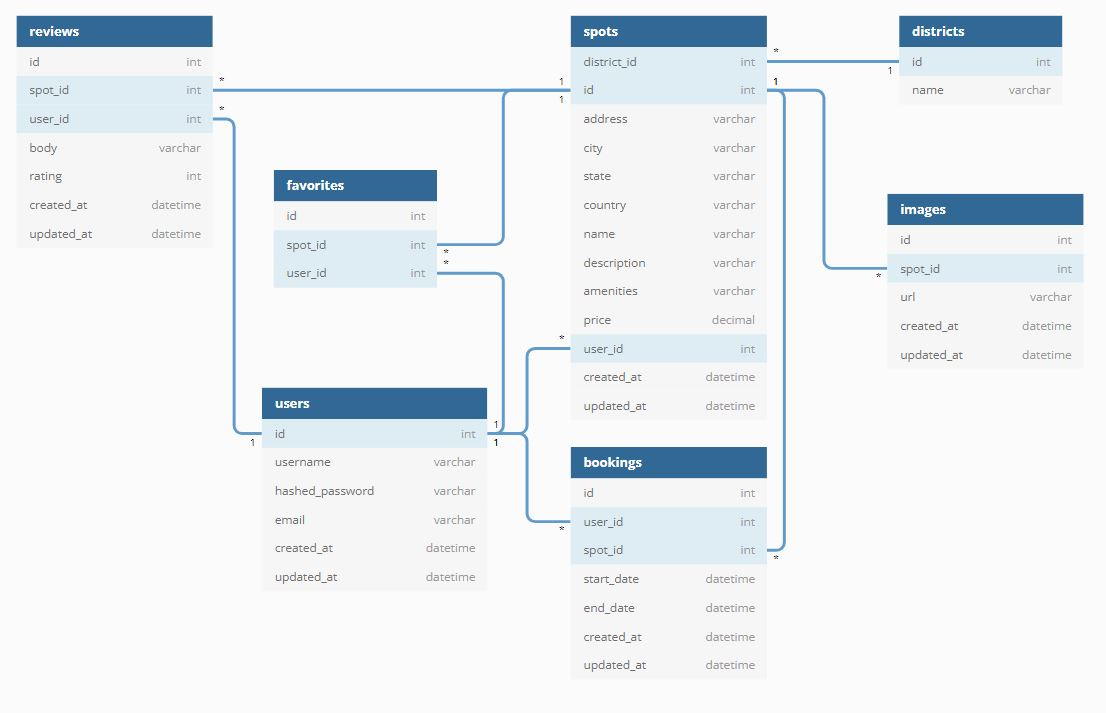
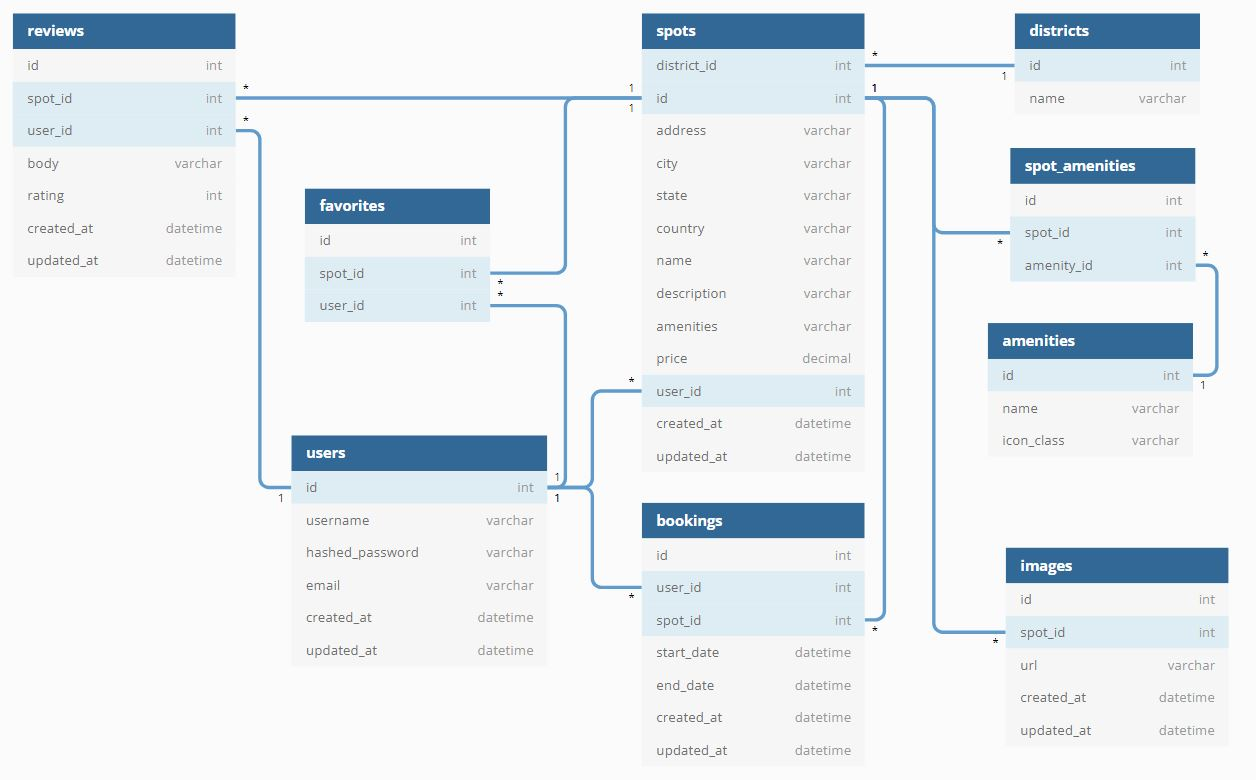
create districts model and seeder, update schema

diff --git a/backend/db/migrations/20220405012151-create-spot.js b/backend/db/migrations/20220405012151-create-spot.js
@@ -1,0 +1,62 @@
+'use strict';
+module.exports = {
+  up: (queryInterface, Sequelize) => {
+    return queryInterface.createTable('spots', {
+      id: {
+        allowNull: false,
+        autoIncrement: true,
+        primaryKey: true,
+        type: Sequelize.INTEGER
+      },
+      district_id: {
+        defaultValue: null,
+        type: Sequelize.INTEGER,
+        references: { model: 'districts' }
+      },
+      address: {
+        type: Sequelize.STRING(100)
+      },
+      city: {
+        allowNull: false,
+        type: Sequelize.STRING(50)
+      },
+      state: {
+        type: Sequelize.STRING(50)
+      },
+      country: {
+        allowNull: false,
+        type: Sequelize.STRING(100)
+      },
+      name: {
+        allowNull: false,
+        type: Sequelize.STRING(255)
+      },
+      description: {
+        allowNull: false,
+        type: Sequelize.TEXT
+      },
+      price: {
+        allowNull: false,
+        type: Sequelize.DECIMAL(12,2)
+      },
+      user_id: {
+        allowNull: false,
+        type: Sequelize.INTEGER,
+        references: {model: 'users'}
+      },
+      created_at: {
+        allowNull: false,
+        type: Sequelize.DATE,
+        defaultValue: Sequelize.fn('now')
+      },
+      updated_at: {
+        allowNull: false,
+        type: Sequelize.DATE,
+        defaultValue: Sequelize.fn('now')
+      }
+    });
+  },
+  down: (queryInterface, Sequelize) => {
+    return queryInterface.dropTable('spots');
+  }
+};

diff --git a/backend/db/models/spot.js b/backend/db/models/spot.js
@@ -1,0 +1,46 @@
+'use strict';
+module.exports = (sequelize, DataTypes) => {
+  const Spot = sequelize.define('Spot', {
+    district_id: DataTypes.INTEGER,
+    address: DataTypes.STRING,
+    city: DataTypes.STRING,
+    state: DataTypes.STRING,
+    country: DataTypes.STRING,
+    name: DataTypes.STRING,
+    description: DataTypes.TEXT,
+    price: DataTypes.DECIMAL,
+    user_id: DataTypes.INTEGER
+  }, {
+    underscored: true,
+  });
+  Spot.associate = function(models) {
+    Spot.belongsTo(models.User, { 
+      foreignKey: 'user_id', 
+      onDelete: 'cascade' 
+    });
+    Spot.belongsTo(models.District, {
+      foreignKey: 'district_id'
+    });
+    Spot.hasMany(models.Image, {
+      foreignKey: 'spot_id'
+    });
+    Spot.belongsToMany(models.Amenity, {
+      through: 'spot_amenities',
+      otherKey: 'amenity_id',
+      foreignLey: 'spot_id'
+    }); 
+    Spot.belongsToMany(models.User, {
+      through: 'favorites',
+      otherKey: 'user_id',
+      foreignLey: 'spot_id',
+      as: 'Favorites'
+    });
+    Spot.hasMany(models.Review, {
+      foreignKey: 'spot_id'
+    }) 
+    Spot.hasMany(models.Booking, {
+      foreignKey: 'spot_id'
+    })
+  };
+  return Spot;
+};

diff --git a/backend/db/migrations/20220405011106-create-district.js b/backend/db/migrations/20220405011106-create-district.js
@@ -1,0 +1,34 @@
+'use strict';
+module.exports = {
+  up: (queryInterface, Sequelize) => {
+    return queryInterface.createTable('districts', {
+      id: {
+        allowNull: false,
+        autoIncrement: true,
+        primaryKey: true,
+        type: Sequelize.INTEGER
+      },
+      name: {
+        allowNull: false,
+        unique: true,
+        type: Sequelize.STRING
+      },
+      createdAt: {
+        allowNull: false,
+        type: Sequelize.DATE,
+        defaultValue: Sequelize.fn('now')
+      },
+      updatedAt: {
+        allowNull: false,
+        type: Sequelize.DATE,
+        defaultValue: Sequelize.fn('now')
+      }
+    },
+    {
+      underscored: true
+    });
+  },
+  down: (queryInterface, Sequelize) => {
+    return queryInterface.dropTable('districts');
+  }
+};

diff --git a/backend/db/seeders/20220405011638-districts-seed.js b/backend/db/seeders/20220405011638-districts-seed.js
@@ -1,0 +1,30 @@
+'use strict';
+
+module.exports = {
+  up: (queryInterface, Sequelize) => {
+    /*
+      Add altering commands here.
+      Return a promise to correctly handle asynchronicity.
+
+      Example:
+    */
+      return queryInterface.bulkInsert('districts', [
+        { name: 'Watson' },
+        { name: 'City Center' },
+        { name: 'Heywood' },
+        { name: 'Pacifica' },
+        { name: 'Santo Domingo' },
+        { name: 'Westbrook' }
+      ], {});
+  },
+
+  down: (queryInterface, Sequelize) => {
+    /*
+      Add reverting commands here.
+      Return a promise to correctly handle asynchronicity.
+
+      Example:
+    */
+      return queryInterface.bulkDelete('districts', null, {});
+  }
+};

diff --git a/backend/db/models/district.js b/backend/db/models/district.js
@@ -1,0 +1,16 @@
+'use strict';
+module.exports = (sequelize, DataTypes) => {
+  const District = sequelize.define('District', {
+    name: {
+      type: DataTypes.STRING,
+      allowNull: false
+    }
+  }, 
+  {
+    underscored: true
+  });
+  district.associate = function(models) {
+    
+  };
+  return district;
+};
